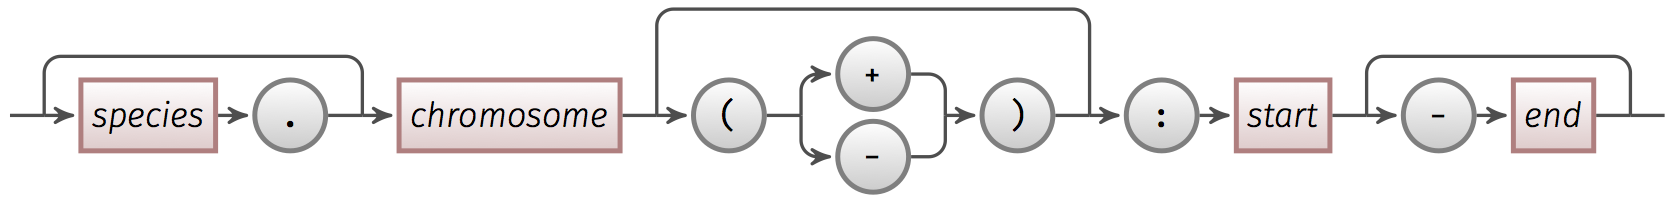
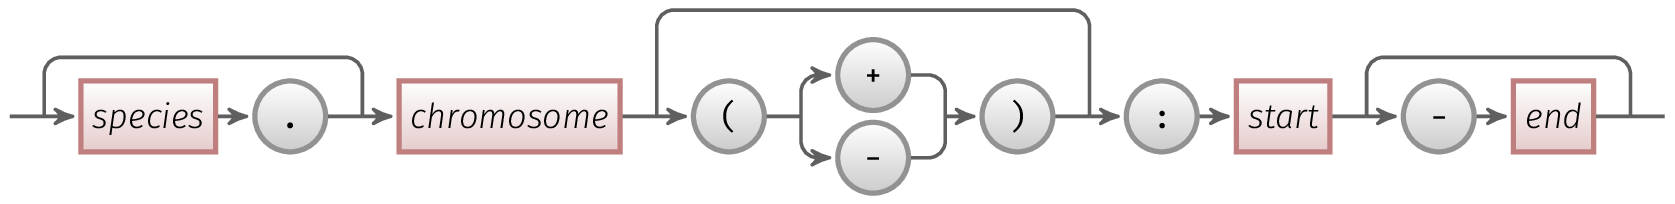
Use arara to create png outputs

diff --git a/doc/intspans.tex b/doc/intspans.tex
@@ -1,4 +1,14 @@
-\documentclass[crop,tikz,border=2bp]{standalone}
+% !TEX TS-program = arara
+% arara: xelatex: { shell: yes }
+% arara: indent: { overwrite: yes }
+% arara: clean: {extensions: [aux, bak, bbl, bcf, blg, idx, ilg, ind, ist, log, nlo, nls, out, run.xml, synctex.gz,]}
+
+\documentclass[
+    convert,
+    outext=.png,
+    border=2bp,
+    tikz,
+]{standalone}
 
 \usepackage{fontspec}
 \defaultfontfeatures{Mapping=tex-text,Scale=MatchLowercase}
@@ -14,61 +24,65 @@
 \begin{document}
 
 \tikzset{
-    >=stealth', black!50, text=black, thick,
-    every new ->/.style       = {thick, shorten <=0pt, shorten >=1pt, color=black!70},
-    every new --/.style       = {thick, color=black!70},
-    graphs/every graph/.style = {edges=rounded corners},
-    skip loop/.style          = {to path={-- ++(0,#1) -| (\tikztotarget)}},
-    hv path/.style            = {to path={-| (\tikztotarget)}},
-    vh path/.style            = {to path={|- (\tikztotarget)}},
-    nonterminal/.style={
+>=stealth', black!50, text=black, thick,
+every new ->/.style       = {thick, shorten <=0pt, shorten >=1pt, color=black!70},
+every new --/.style       = {thick, color=black!70},
+graphs/every graph/.style = {edges=rounded corners},
+skip loop/.style          = {to path={-- ++(0,#1) -| (\tikztotarget)}},
+hv path/.style            = {to path={-| (\tikztotarget)}},
+vh path/.style            = {to path={|- (\tikztotarget)}},
+nonterminal/.style={
         rectangle, minimum size=6mm, very thick, draw=red!50!black!50,
         top color=white, bottom color=red!50!black!20,
         font=\itshape, text height=1.5ex,text depth=.25ex},
-    terminal/.style={
+terminal/.style={
         rounded rectangle, minimum size=6mm, very thick, draw=black!50,
         top color=white, bottom color=black!20,
         font=\ttfamily, text height=1.5ex, text depth=.25ex},
-    invisible/.style={
+invisible/.style={
         draw, circle, minimum size=0mm,
         inner sep=0pt, outer sep=0pt},
-    shape = coordinate
+shape = coordinate
 }
 
 %-99--10,1-10,19,45-48
 
 \begin{tikzpicture}
-    \graph[grow right sep, branch down=7mm, simple]{
-        / --
-        p1 --
-        p2 ->
-        start_negative[as={-}, terminal] --
-        p3 --
-        p4 ->
-        start_digit[as={digit}, terminal] --
-        p5 --
-        p6 ->
-        hyphen[as={-}, terminal] --
-        p7 ->
-        end_negative[as={-}, terminal] --
-        p8 --
-        p9 ->
-        end_digit[as={digit}, terminal] --
-        p10 --
-        p11 --
-        p12 ->
-        "," [terminal] --
-        p13 -!-
-        p14 --
-        / [coordinate];
+    \graph[
+    grow right sep,
+    branch down=7mm,
+    simple,
+    ]{
+    / --
+    p1 --
+    p2 ->
+    start_negative[as={-}, terminal] --
+    p3 --
+    p4 ->
+    start_digit[as={digit}, terminal] --
+    p5 --
+    p6 ->
+    hyphen[as={-}, terminal] --
+    p7 ->
+    end_negative[as={-}, terminal] --
+    p8 --
+    p9 ->
+    end_digit[as={digit}, terminal] --
+    p10 --
+    p11 --
+    p12 ->
+    "," [terminal] --
+    p13 -!-
+    p14 --
+    / [coordinate];
 
-        p2 -- [skip loop=5mm] p3;
-        p6 -- [skip loop=9mm] p11;
-        p7 -- [skip loop=5mm] p8;
-        p12 -- [skip loop=5mm] p14;
-        p5 -> [skip loop=-5mm] p4;
-        p10 -> [skip loop=-5mm] p9;
-        p13 -> [skip loop=-9mm] p1;
+    p2 -- [skip loop=5mm] p3;
+    p6 -- [skip loop=9mm] p11;
+    p7 -- [skip loop=5mm] p8;
+    p12 -- [skip loop=5mm] p14;
+    p5 -> [skip loop=-5mm] p4;
+    p10 -> [skip loop=-5mm] p9;
+    p13 -> [skip loop=-9mm] p1;
     };
 \end{tikzpicture}
 

diff --git a/doc/positions.tex b/doc/positions.tex
@@ -1,4 +1,14 @@
-\documentclass[crop,tikz,border=2bp]{standalone}
+% !TEX TS-program = arara
+% arara: xelatex: { shell: yes }
+% arara: indent: { overwrite: yes }
+% arara: clean: {extensions: [aux, bak, bbl, bcf, blg, idx, ilg, ind, ist, log, nlo, nls, out, run.xml, synctex.gz,]}
+
+\documentclass[
+    convert,
+    outext=.png,
+    border=2bp,
+    tikz,
+]{standalone}
 
 \usepackage{fontspec}
 \defaultfontfeatures{Mapping=tex-text,Scale=MatchLowercase}
@@ -14,55 +24,59 @@
 \begin{document}
 
 \tikzset{
-    >=stealth', black!50, text=black, thick,
-    every new ->/.style       = {thick, shorten <=0pt, shorten >=1pt, color=black!70},
-    every new --/.style       = {thick, color=black!70},
-    graphs/every graph/.style = {edges=rounded corners},
-    skip loop/.style          = {to path={-- ++(0,#1) -| (\tikztotarget)}},
-    hv path/.style            = {to path={-| (\tikztotarget)}},
-    vh path/.style            = {to path={|- (\tikztotarget)}},
-    nonterminal/.style={
+>=stealth', black!50, text=black, thick,
+every new ->/.style       = {thick, shorten <=0pt, shorten >=1pt, color=black!70},
+every new --/.style       = {thick, color=black!70},
+graphs/every graph/.style = {edges=rounded corners},
+skip loop/.style          = {to path={-- ++(0,#1) -| (\tikztotarget)}},
+hv path/.style            = {to path={-| (\tikztotarget)}},
+vh path/.style            = {to path={|- (\tikztotarget)}},
+nonterminal/.style={
         rectangle, minimum size=6mm, very thick, draw=red!50!black!50,
         top color=white, bottom color=red!50!black!20,
         font=\itshape, text height=1.5ex,text depth=.25ex},
-    terminal/.style={
+terminal/.style={
         rounded rectangle, minimum size=6mm, very thick, draw=black!50,
         top color=white, bottom color=black!20,
         font=\ttfamily, text height=1.5ex, text depth=.25ex},
-    shape = coordinate
+shape = coordinate
 }
 
 %species.chromosome(strand):start-end
 %--------^^^^^^^^^^--------^^^^^^----
 
 \begin{tikzpicture}
-    \graph[grow right sep, branch down=7mm, simple]{
-        / --
-        p1 ->
-        species [nonterminal] ->
-        "." [terminal] --
-        p2 ->
-        chromosome [nonterminal] --
-        p4 ->
-        "(" [terminal] --
-        q1 -> [vh path]
-        {[nodes={yshift=3.5mm}]
-            strand_positive[as={+}, terminal], strand_negative[as={-}, terminal]
-        } -- [hv path]
-        q3 ->
-        ")" [terminal] --
-        p5 ->
-        ":" [terminal] ->
-        start [nonterminal] --
-        p6 ->
-        "-" [terminal] ->
-        end [nonterminal] --
-        p7 --
-        / [coordinate];
+    \graph[
+    grow right sep,
+    branch down=7mm,
+    simple,
+    ]{
+    / --
+    p1 ->
+    species [nonterminal] ->
+    "." [terminal] --
+    p2 ->
+    chromosome [nonterminal] --
+    p4 ->
+    "(" [terminal] --
+    q1 -> [vh path]
+    {[nodes={yshift=3.5mm}]
+    strand_positive[as={+}, terminal], strand_negative[as={-}, terminal]
+    } -- [hv path]
+    q3 ->
+    ")" [terminal] --
+    p5 ->
+    ":" [terminal] ->
+    start [nonterminal] --
+    p6 ->
+    "-" [terminal] ->
+    end [nonterminal] --
+    p7 --
+    / [coordinate];
 
-        p1 -- [skip loop=5mm] p2;
-        p4 -- [skip loop=9mm] p5;
-        p6 -- [skip loop=5mm] p7;
+    p1 -- [skip loop=5mm] p2;
+    p4 -- [skip loop=9mm] p5;
+    p6 -- [skip loop=5mm] p7;
     };
 \end{tikzpicture}
 
